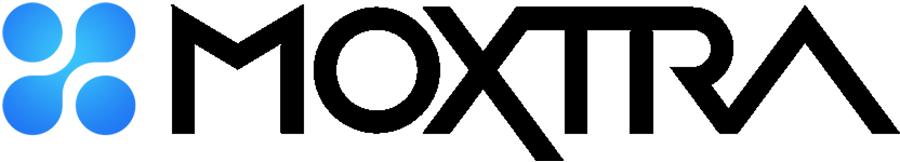
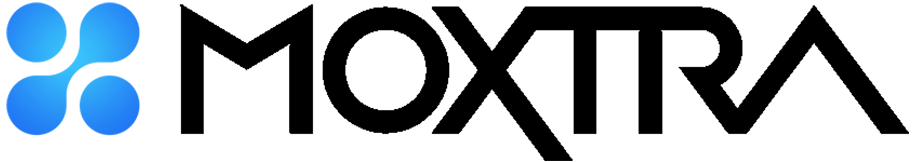
updates

diff --git a/www/index.html b/www/index.html
@@ -47,7 +47,7 @@
 
                     <!-- Logo ( * your text or image into link tag *) -->
                     <div class="nav-logo-wrap">
-                        <a href="#home" class="logo dark"><img src="images/logo-dark.png" width="90" height="28" alt="" /></a>
+                        <a href="#home" class="logo dark"><img src="images/moxtra.png" width="120" height="37" alt="" /></a>
                     </div>
 
                     <div class="mobile-nav"><i class="fa fa-bars"></i></div>
@@ -60,7 +60,6 @@
                             <li><a href="#press">Press</a></li>
                             <li><a href="#features">Features</a></li>
                             <li><a href="#download">Download</a></li>
-                            <li><a href="#uses">Uses</a></li>
                             <li><a href="#team">Team</a></li>
                             <li><a href="#contacts">Contact</a></li>
                         </ul>

diff --git a/www/works/education.html b/www/works/education.html
@@ -48,7 +48,7 @@
                     
                     <!-- Logo ( * your text or image into link tag *) -->
                     <div class="nav-logo-wrap">
-                        <a href="../index.html" class="logo dark"><img src="../images/logo-dark.png" width="90" height="28" alt="" /></a>
+                        <a href="../index.html" class="logo dark"><img src="../images/moxtra.png" width="120" height="37" alt="" /></a>
                     </div>
                     
                     <div class="mobile-nav"><i class="fa fa-bars"></i></div>

diff --git a/www/works/sales.html b/www/works/sales.html
@@ -48,7 +48,7 @@
                     
                     <!-- Logo ( * your text or image into link tag *) -->
                     <div class="nav-logo-wrap">
-                        <a href="../index.html" class="logo dark"><img src="../images/logo-dark.png" width="90" height="28" alt="" /></a>
+                        <a href="../index.html" class="logo dark"><img src="../images/moxtra.png" width="120" height="37" alt="" /></a>
                     </div>
                     
                     <div class="mobile-nav"><i class="fa fa-bars"></i></div>

diff --git a/www/works/travel.html b/www/works/travel.html
@@ -48,7 +48,7 @@
                     
                     <!-- Logo ( * your text or image into link tag *) -->
                     <div class="nav-logo-wrap">
-                        <a href="../index.html" class="logo dark"><img src="../images/logo-dark.png" width="90" height="28" alt="" /></a>
+                        <a href="../index.html" class="logo dark"><img src="../images/moxtra.png" width="120" height="37" alt="" /></a>
                     </div>
                     
                     <div class="mobile-nav"><i class="fa fa-bars"></i></div>
